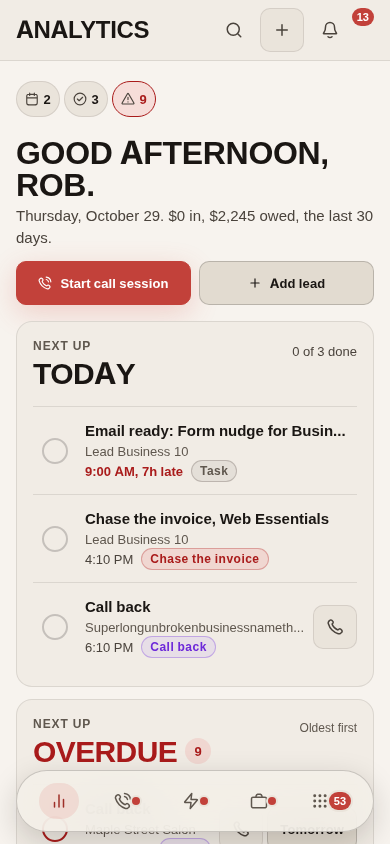
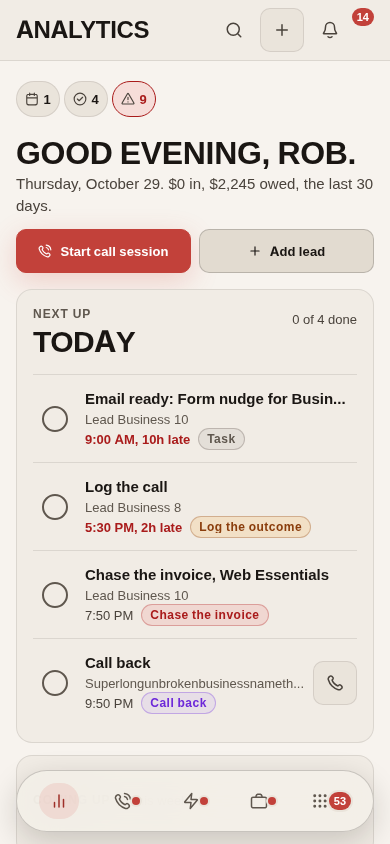
Next up on the home: Coming up above Overdue
Cards run Today, Coming up, Overdue at every width; from 768 Today and
Coming up share a row and Overdue takes the full row under them. The
skeleton draws the same order and no longer caps Today (six) or Coming up
(four), which now set where Overdue starts. Browser test asserts the
order, the layout and the skeleton fit (each proved by putting the fault
back); docs and screenshots updated.

Claude-Session: https://claude.ai/code/session_012V1U6iNS8jPedJvUn93Jhs

diff --git a/src/components/NextUpHome.jsx b/src/components/NextUpHome.jsx
@@ -15,7 +15,7 @@ import { callOutcomeSet, outcomeUndoSet } from '../lib/callOutcome';
 import { applyOutcome, outcomeRemoves, restoreLead } from '../lib/lists';
 import OutcomeSheet from './OutcomeSheet';
 
-/* Next up on the home (the home page job): Today, Overdue and Coming up as three cards Rob can work from without leaving the page.
+/* Next up on the home (the home page job): Today, Coming up and Overdue, in that order, as three cards Rob can work from without leaving the page.
  * One rule for every row, in src/lib/nextAction.js (homeRowAction) and src/lib/homeRows.js (what each write is):
  *   the check     a real task completes (the same completePatch the Tasks page writes); a call or a callback opens the Log outcome
  *                 sheet and never writes done; a manual action stamps its doneAt; any other rule action opens the record at its step
@@ -28,9 +28,12 @@ const NU_KEY = 'vz_home_nextup_n';   // the last known row counts, so the skelet
 const COMING_KEY = 'vz_home_coming'; // the Coming up card: '1' open, '0' folded
 const readLS = (k) => { try { return localStorage.getItem(k); } catch { return null; } };
 const writeLS = (k, v) => { try { localStorage.setItem(k, v); } catch { /* storage may be off */ } };
-/* The last known row counts; a stored 0 is a real answer (that card said it was clear), only a missing one falls back to a normal day. */
+/* The last known row counts; a stored 0 is a real answer (that card said it was clear), only a missing one falls back to a normal day.
+   Today and Coming up are never capped (they share the first row, so they set where Overdue starts), so the skeleton draws as many rows as they had;
+   only Overdue is capped, at the five it shows. LIVE_MAX only guards a corrupt value from drawing a page of skeleton. */
+const LIVE_MAX = 60;
 const DEFAULT_COUNTS = { t: 3, o: 5, l: 1 };
-const lastCounts = () => { try { const o = JSON.parse(readLS(NU_KEY) || 'null'); const n = (v, max, d) => (Number.isFinite(Number(v)) && v !== null && v !== undefined && v !== '' ? Math.min(max, Math.max(0, Number(v))) : d); return o ? { t: n(o.t, 6, DEFAULT_COUNTS.t), o: n(o.o, 5, DEFAULT_COUNTS.o), l: n(o.l, 4, DEFAULT_COUNTS.l) } : DEFAULT_COUNTS; } catch { return DEFAULT_COUNTS; } };
+const lastCounts = () => { try { const o = JSON.parse(readLS(NU_KEY) || 'null'); const n = (v, max, d) => (Number.isFinite(Number(v)) && v !== null && v !== undefined && v !== '' ? Math.min(max, Math.max(0, Number(v))) : d); return o ? { t: n(o.t, LIVE_MAX, DEFAULT_COUNTS.t), o: n(o.o, OVERDUE_CAP, DEFAULT_COUNTS.o), l: n(o.l, LIVE_MAX, DEFAULT_COUNTS.l) } : DEFAULT_COUNTS; } catch { return DEFAULT_COUNTS; } };
 
 /* Whether Coming up opens on arrival: what Rob left it at, else open on a computer and folded on a phone. */
 const comingOpen = () => { const v = readLS(COMING_KEY); return v === '1' ? true : v === '0' ? false : (typeof window !== 'undefined' && window.matchMedia ? window.matchMedia('(min-width: 768px)').matches : false); };
@@ -87,12 +90,12 @@ function Skeleton({ counts }) {
     <div className="nh" aria-busy="true" aria-hidden="true">
       <div className="nh-grid">
         <Card className="nh-card">{head(96)}{list(counts.t, 't')}</Card>
-        <Card className="nh-card">{head(120)}{list(counts.o, 'o')}</Card>
+        <Card className="nh-card nh-card--coming">
+          <div className="nh-coming-head"><SkeletonBlock width={112} height={14} /></div>
+          {open && list(counts.l, 'l', true)}
+        </Card>
+        <Card className="nh-card nh-wide">{head(120)}{list(counts.o, 'o')}</Card>
       </div>
-      <Card className="nh-card nh-card--coming">
-        <div className="nh-coming-head"><SkeletonBlock width={112} height={14} /></div>
-        {open && list(counts.l, 'l', true)}
-      </Card>
       <div className="nh-foot"><SkeletonBlock width={104} height={44} radius="var(--v-radius-md)" /></div>
     </div>
   );
@@ -135,7 +138,7 @@ export default function NextUpHome({ leads = [], projects = [], sets = [], loadi
   };
   useEffect(() => { // the last known counts, for the next skeleton
     if (loading) return;
-    writeLS(NU_KEY, JSON.stringify({ t: q.today.length, o: Math.min(5, q.overdue.length), l: Math.min(4, q.later.length) }));
+    writeLS(NU_KEY, JSON.stringify({ t: q.today.length, o: Math.min(OVERDUE_CAP, q.overdue.length), l: q.later.length }));
   }, [loading, q]);
 
   const openRecord = (item, intent) => { if (item.lead) shell.openRecord(item.lead, intent); };
@@ -222,7 +225,36 @@ export default function NextUpHome({ leads = [], projects = [], sets = [], loadi
           {L.today.length ? <ul className="nh-list">{L.today.map(r => <NuRow key={r.key} {...rowProps(r, false)} />)}</ul> : <p className="nh-clear" role="status">{COPY.home.todayClear}</p>}
         </Card>
 
-        <Card className="nh-card nh-card--overdue" data-card="next-overdue">
+        <Card className="nh-card nh-card--coming" data-card="next-coming">
+          <button type="button" className="nh-coming-head" aria-expanded={coming} aria-controls="nh-coming-body" onClick={toggleComing}>
+            <span className="nh-coming-label">Coming up</span>
+            <span className="nh-coming-n">{L.later.length} this week</span>
+            <Icon icon="ChevronDown" size="var(--v-icon-md)" className={`nh-chev${coming ? ' is-open' : ''}`} />
+          </button>
+          <Collapsible open={coming}>
+            <div id="nh-coming-body">
+              {L.later.length ? (
+                <ul className="nh-list">
+                  {L.later.map(it => {
+                    const d = new Date(it.due);
+                    const biz = it.lead.business;
+                    const plan = homeRowAction(it, now);
+                    return (
+                      <li key={rowKey(it)} className="nh-row nh-row--later" data-row-id={it.lead._id}>
+                        <button type="button" className="v-stretch" onClick={() => openRecord(it)} aria-label={`Open ${biz}, ${plan.title}, ${fmtDateTime(it.due)}`}>{`Open ${biz}`}</button>
+                        <span className="nh-stamp" aria-hidden="true"><span className="nh-stamp-d">{DAYS[d.getDay()]}</span><span className="nh-stamp-n">{d.getDate()}</span></span>
+                        <div className="nh-body"><span className="nh-title lay-truncate">{plan.title}</span><span className="nh-biz lay-truncate">{biz}</span></div>
+                        <Pill tone={NEXT_TONE[it.action.kind] || 'neutral'} label={kindLabel(it.action)} size="sm" icon={false} variant="soft" className="nh-later-pill" />
+                      </li>
+                    );
+                  })}
+                </ul>
+              ) : <p className="nh-clear">{COPY.home.comingClear}</p>}
+            </div>
+          </Collapsible>
+        </Card>
+
+        <Card className="nh-card nh-card--overdue nh-wide" data-card="next-overdue">
           <div className="nh-head">
             <div className="nh-headl"><span className="nh-kicker">Next up</span><h2 className="nh-h">Overdue{L.overdueCount > 0 && <span className="nh-count">{L.overdueCount}</span>}</h2></div>
             <span className="nh-sort">Oldest first</span>
@@ -233,35 +265,6 @@ export default function NextUpHome({ leads = [], projects = [], sets = [], loadi
           )}
         </Card>
       </div>
-
-      <Card className="nh-card nh-card--coming" data-card="next-coming">
-        <button type="button" className="nh-coming-head" aria-expanded={coming} aria-controls="nh-coming-body" onClick={toggleComing}>
-          <span className="nh-coming-label">Coming up</span>
-          <span className="nh-coming-n">{L.later.length} this week</span>
-          <Icon icon="ChevronDown" size="var(--v-icon-md)" className={`nh-chev${coming ? ' is-open' : ''}`} />
-        </button>
-        <Collapsible open={coming}>
-          <div id="nh-coming-body">
-            {L.later.length ? (
-              <ul className="nh-list">
-                {L.later.map(it => {
-                  const d = new Date(it.due);
-                  const biz = it.lead.business;
-                  const plan = homeRowAction(it, now);
-                  return (
-                    <li key={rowKey(it)} className="nh-row nh-row--later" data-row-id={it.lead._id}>
-                      <button type="button" className="v-stretch" onClick={() => openRecord(it)} aria-label={`Open ${biz}, ${plan.title}, ${fmtDateTime(it.due)}`}>{`Open ${biz}`}</button>
-                      <span className="nh-stamp" aria-hidden="true"><span className="nh-stamp-d">{DAYS[d.getDay()]}</span><span className="nh-stamp-n">{d.getDate()}</span></span>
-                      <div className="nh-body"><span className="nh-title lay-truncate">{plan.title}</span><span className="nh-biz lay-truncate">{biz}</span></div>
-                      <Pill tone={NEXT_TONE[it.action.kind] || 'neutral'} label={kindLabel(it.action)} size="sm" icon={false} variant="soft" className="nh-later-pill" />
-                    </li>
-                  );
-                })}
-              </ul>
-            ) : <p className="nh-clear">{COPY.home.comingClear}</p>}
-          </div>
-        </Collapsible>
-      </Card>
 
       <div className="nh-foot"><Button variant="ghost" size="md" icon="ArrowRight" onClick={() => shell.go('tasks')} className="nh-all">All tasks</Button></div>
       <span className="visually-hidden" role="status" aria-live="polite" key={said.n}>{said.text}</span>
@@ -281,7 +284,8 @@ export default function NextUpHome({ leads = [], projects = [], sets = [], loadi
 export const nextUpHomeStyles = `
   .nh { display: flex; flex-direction: column; gap: var(--v-space-3); min-width: 0; }
   .nh-grid { display: grid; grid-template-columns: minmax(0, 1fr); gap: var(--v-space-3); min-width: 0; align-items: start; }
-  @media (min-width: 768px) { .nh-grid { grid-template-columns: repeat(2, minmax(0, 1fr)); } }
+  /* Today, Coming up, Overdue, in that order at every width. From 768 Today and Coming up share the top row and Overdue takes the full row under them. */
+  @media (min-width: 768px) { .nh-grid { grid-template-columns: repeat(2, minmax(0, 1fr)); } .nh-wide { grid-column: 1 / -1; } }
   .nh-card { gap: 0; min-width: 0; border-radius: var(--v-radius-xl); }
   .nh-card--overdue { border-color: color-mix(in srgb, var(--v-status-danger-text) 38%, var(--v-border)); }
   .nh-head { display: flex; align-items: flex-start; justify-content: space-between; gap: var(--v-space-3); min-height: 56px; min-width: 0; }

diff --git a/src/pages/AdminAnalytics.jsx b/src/pages/AdminAnalytics.jsx
@@ -20,7 +20,7 @@ import { Dash, DashSkeleton, dashStyles } from './AdminPipeline';
  * (api/_routes/analytics.js over api/_lib/analytics.js, mirrored in
  * src/lib/analytics.js): real records, honest empty states, no sample
  * data. The payload is small and cached here for a minute per range. Next up
- * (Today, Overdue, Coming up) sits under the greeting: src/components/NextUpHome.jsx,
+ * (Today, Coming up, Overdue) sits under the greeting: src/components/NextUpHome.jsx,
  * the task rules over the leads already in the shell. */
 
 const RANGES = [{ id: 'month', label: 'Month' }, { id: '90', label: '90 days' }, { id: 'year', label: 'Year' }];

diff --git a/src/shared/copy.js b/src/shared/copy.js
@@ -10,7 +10,7 @@
  * `secondary` a link-style second choice where the screen offers one.
  */
 export const COPY = {
-  /* The home's Next up block: Today, Overdue, Coming up. */
+  /* The home's Next up block: Today, Coming up, Overdue. */
   home: {
     todayClear: 'Today is clear. Nice work.',
     overdueClear: "Nothing overdue. You're caught up.",

diff --git a/docs/MOBILE-DECISIONS.md b/docs/MOBILE-DECISIONS.md
@@ -339,7 +339,8 @@ One line each: what, why, the alternative rejected.
 - Where the check opens the Log outcome sheet, the sheet is the Call Console's own: `OutcomeSheet` moved from AdminCalls.jsx to src/components/OutcomeSheet.jsx and the write it makes moved to src/lib/callOutcome.js (`callOutcomeSet`, `outcomeUndoSet`), both used by the Console and the home, so a callback logged from either lands the same. The five outcomes are offered by a small picker sheet first (the Console has them as room buttons). The dial list's rule is applied on the same beat from the lead's `listId` (`applyOutcome`, `outcomeRemoves`, `restoreLead` through the shell's `listOps`), and the shared patch helper reconciles Callbacks due as it does for every lead write.
 - RoundCheck is a new kit piece (src/ui/RoundCheck.jsx, documented in docs/COMPONENTS.md): the kit's Checkbox is a 22px square field control, and the row wants a 44px round control that is also the way into a sheet. It is a `<button>`, not a checkbox; once done it is `aria-disabled` rather than `disabled`, so focus stays on it instead of dropping to the page.
 - Row text sizes: the title is `--v-text-md` (15px) semibold, not 16px: there is no 16px token and tokens only is a standing rule; 15 leaves the late words room on a 390px phone. When the line is short the kind pill gives way (it truncates), never the late label.
-- The skeleton follows the data: it draws the last known row counts (localStorage `vz_home_nextup_n`, default three Today and five Overdue, the shape of a normal day) instead of a fixed two rows per card, and draws Coming up open or folded the way it will land. Two rows per card fails the feel audit's fit check on every state of the home (the Overdue and Coming up cards start where the cards above them end) and would need a noFit exemption. There is no delay before it shows (the other screens wait 150 ms): an empty region for the first moments pushes everything under it down, which the audit reads as a layout shift of 0.5.
+- The skeleton follows the data: it draws the last known row counts (localStorage `vz_home_nextup_n`, default three Today and five Overdue, the shape of a normal day), Today and Coming up uncapped (they share the first row from 768, so they set where Overdue starts; an earlier cap of six and four made Overdue jump when Coming up held five or more), Overdue at its five instead of a fixed two rows per card, and draws Coming up open or folded the way it will land. Two rows per card fails the feel audit's fit check on every state of the home (the Overdue and Coming up cards start where the cards above them end) and would need a noFit exemption. There is no delay before it shows (the other screens wait 150 ms): an empty region for the first moments pushes everything under it down, which the audit reads as a layout shift of 0.5.
 - Audit expectations changed: (1) screen `analytics-year` in scripts/audit-screens.mjs clicks the Year radio without scrolling it into view (`evaluate(e => e.click())`), because the range control now sits under Next up, below the fold on a phone, and a scrolling click made the skeleton and the loaded state sit at different scroll offsets (the fit check compares positions at the top); (2) `DashSkeleton cards` went from 7 to 6, the loaded page having lost its Open tasks card; (3) one new row, `analytics-nextup-clear` (static), so Today and Overdue in their clear states reach the layout and a11y audits. No audit asserted the old Open tasks card itself.
 - The Coming up card remembers open or folded in localStorage `vz_home_coming` ('1' or '0', try/catch), default open from 768px and folded below. A row that moves is a ghost for `--v-dur-slow` plus a beat, then it is removed; a finished row is a ghost until the page reloads.
 - Review pass (five lenses over the diff, skeptics verifying each finding; four confirmed by reproduction before the run was stopped to free the machine for the gate, the rest fixed from the finders' own scenarios): (1) Tomorrow on a pinned task now moves the stored next action (the pin's copy of the due) with the task, and its undo puts both back; (2) completing a pinned task is undone with the pin and the next action restored; (3) Tomorrow moves a task's reminder with its due, keeping its distance, and clears the stamp, because the reminders cron pushes on remindAt (a reminder left on the old time fires at once or is stamped stale and never pushes for the new one); the undo restores due, remindAt and notifiedAt exactly (the Tasks page's own snooze still leaves remindAt alone, a gap worth its own job); (4) Show N more depends on every row Overdue holds (finished rows included), not the live count; (5) the skeleton treats a stored 0 as a clear card; (6) a done RoundCheck is `aria-disabled` not `disabled`, focus moves to the neighbouring row after Tomorrow; (7) the done row's business name keeps its full contrast, the neutral ring is `--v-text-3`; (8) below 381px the Tomorrow and Open buttons are icon buttons with the same labels, so a call row's title keeps room; (9) the Outcome Undo reads the shell's lists as they are when it runs; (10) a snoozed rule action (auto false, any kind but custom) is not a task to tick: its check opens the record, Tomorrow still moves the snooze; (11) the tests that ran an undo on the pre-write record now run it on the record as the write left it. Left as they are: a snoozed callback's logged outcome does not clear its manual action (the Call Console and the Tasks page behave the same), and two Open controls on a derived overdue row (the check opens the step, the button opens the record) with different labels.
+- Order (a later request: Coming up above Overdue): the cards run Today, Coming up, Overdue in the document and down the page at every width, so the tab order and a screen reader follow what the eye sees. A phone stacks the three. From 768 the grid is two columns with Today and Coming up on the first row and Overdue spanning both (`.nh-wide`, `grid-column: 1 / -1`) under them; the alternative that kept two columns (Today on the left, Coming up over Overdue on the right) left a tall empty space under a short Today. The skeleton draws the same three cards in the same order. Audit expectation changed: scripts/home-nextup-test.mjs used to assert that Today and Overdue sit side by side from 768 and that the cards stack on a phone; it now asserts the document order, Coming up above Overdue, the shared first row and the full width Overdue row from 768, and the stack on a phone (proved by putting the old order back: 7 checks fail across 320, 390 and 1280). No other audit asserted the order.

diff --git a/CLAUDE.md b/CLAUDE.md
@@ -19,7 +19,7 @@ is in reports/PROMPT-NN-REPORT.md and reports/SITE-NN-REPORT.md.
 - Dates on the server are America/New_York through api/_lib/zone.js (the cron, rules.js, nextAction.js, deal.js, invoices.js), never the process zone; the client mirrors keep the browser's zone in the clock at the top of the file and stay byte for byte identical below it. rules-test and next-action-test run in both zones and must agree.
 - One task system: tasks are the `checklists` on leads and projects (src/shared/taskRules.js, mirrored byte for byte in api/_lib/taskRules.js, asserted by tasks-test), never a second collection. The Next up rule is `taskNextUp` and nothing else: pinned wins, else the earliest due open task overdue first, ties by checklist order then task order, undated only when nothing is dated. A pin IS the manual next action (auto false, taskId) and every write that pins, finishes, deletes or unpins goes through src/lib/taskWrite.js. The Tasks screen (/clients/:id/tasks) and the record's Tasks section are the only task UI; Notes has no checklists.
 - The client planner is a dashboard (src/pages/Planner.jsx: Home, Posts, Ads, Ideas) in Rob's first person, fed only by /api/planner, which strips on the server what a client may not see (an ad's budget unless showBudget, nothing internal). A post carries kind post or ad; video is a format. Suggestions (a client's ideas) are their own collection, written only by the planner door and answered from the editor's inbox. Save to photos is src/lib/share.js (share-test).
-- The home's Next up block (src/components/NextUpHome.jsx over src/lib/homeRows.js and `homeRowAction` in src/lib/nextAction.js): Today, Overdue and Coming up are `nextUpItems` and nothing else, so the overview chips and the tab badge follow every write. One rule per row: a real task completes through `completePatch`, a call or a callback never writes done (it opens the Log outcome sheet, src/components/OutcomeSheet.jsx, built by src/lib/callOutcome.js, the same write the Call Console makes), a manual action stamps its `doneAt` like the Tasks page, any other rule action opens its record; Tomorrow is 9:00 AM New York (`tomorrowNineNY`) on a task, a callback (`callbackAt`) or a manual action, and a derived action gets Open instead. A row finished or moved stays until reload (ghosts); Today is never capped and Overdue shows five then Show N more. `node scripts/home-nextup-test.mjs` walks it in a browser; section 4 of next-action-test is the pure half.
+- The home's Next up block (src/components/NextUpHome.jsx over src/lib/homeRows.js and `homeRowAction` in src/lib/nextAction.js): Today, Coming up and Overdue (in that order, at every width) are `nextUpItems` and nothing else, so the overview chips and the tab badge follow every write. One rule per row: a real task completes through `completePatch`, a call or a callback never writes done (it opens the Log outcome sheet, src/components/OutcomeSheet.jsx, built by src/lib/callOutcome.js, the same write the Call Console makes), a manual action stamps its `doneAt` like the Tasks page, any other rule action opens its record; Tomorrow is 9:00 AM New York (`tomorrowNineNY`) on a task, a callback (`callbackAt`) or a manual action, and a derived action gets Open instead. A row finished or moved stays until reload (ghosts); Today is never capped and Overdue shows five then Show N more. `node scripts/home-nextup-test.mjs` walks it in a browser; section 4 of next-action-test is the pure half.
 - Every lead and project carries one next action (src/lib/nextAction.js, mirrored in api/_lib/nextAction.js): the rules are one pure function, the shared patch helpers in AdminApp (and the Call Console's own) recompute it on any write that touches the fields it reads, the daily cron repairs drift, a manual action (auto false) is never overwritten. The Tasks page (/tasks, the Next up queue; the first screen, nav id dashboard, is Analytics), its badge and the notifications drawer read nextUpItems and nothing else for what is due.
 - Client docs (docs job; docs/ARCHITECTURE.md, "Client docs"): a doc is a title, a type and blocks, never HTML. `src/shared/docBlocks.js` is the schema and is mirrored byte for byte in `api/_lib/docBlocks.js` (docs-test asserts it); `sanitizeBlocks()` is the only door in, `domToRuns` in `src/components/docs/RichText.jsx` the only place page text becomes runs, and nothing that draws a doc writes HTML (security-test 4d scans for the sinks). Docs are admin only (api/_routes/docs.js behind route()); a reference block may only point at the same client's record; every doc read and write goes through `docsApi` (src/lib/useDocs.js) from the shell, so the client's Docs card, All docs, the More count, search and Recently Deleted read one list. Autosave is src/lib/docSave.js: Back saves first and text that could not be saved is kept in memory for the next open. Contract wording states the house rules from `src/shared/pricing.js` (never typed). A doc's checklist stays in the doc; only the explicit Make a task writes a task, through `addTask` and `checklistsPatch`.
 - Concepts are a client presentation, not a library: a lead at any stage gets a concept set (concept_sets, api/_routes/concept-sets.js) built at /leads/:id/concepts and opened by the client at /concepts/:token (src/pages/Concepts.jsx: one section per direction, each revealing as one unit, no scenes; served by /api/concepts which rides on api/showcase.js by rewrite). The token is minted server side only; a draft never resolves publicly; the client can approve, ask for changes and leave notes, and nothing else. A set is Pick one (default, every older set) or Review each (an answer on every direction that needs one, saved as they go, one Send my answers, locked until Rob reopens it); the client's answers are written only by the public endpoint and survive an editor save. No prices on that page.

diff --git a/docs/QA-CHECKLIST.md b/docs/QA-CHECKLIST.md
@@ -12,7 +12,7 @@ off, theme Dark.
 | # | Do | Expect |
 |---|---|---|
 | 1 | Open admin.visualizeclients.com on the phone | The shell frame paints at once, the login card appears, no blank screen. |
-| 2 | Sign in with the password | Analytics (the home) greets you by name with today's date and the money line (received in the period, outstanding); six KPIs with their change against the period before; the range (Month, 90 days, Year) is remembered. A phone shows the overview strip (meetings, due today, overdue) on one line above. Under the greeting, Next up: Today (rows by time, X of Y done), Overdue (oldest first, five rows then Show N more, a Tomorrow or Open on each), Coming up (the next seven days, folded on a phone). Tick a task: it stays, struck through, Undo for six seconds, the overview chips follow. Tomorrow moves it to 9:00 AM. The check on a call or a callback opens Log outcome. |
+| 2 | Sign in with the password | Analytics (the home) greets you by name with today's date and the money line (received in the period, outstanding); six KPIs with their change against the period before; the range (Month, 90 days, Year) is remembered. A phone shows the overview strip (meetings, due today, overdue) on one line above. Under the greeting, Next up, top to bottom: Today (rows by time, X of Y done), Coming up (the next seven days, folded on a phone), Overdue (oldest first, five rows then Show N more, a Tomorrow or Open on each). From 768 Today and Coming up share a row and Overdue takes the full row under them. Tick a task: it stays, struck through, Undo for six seconds, the overview chips follow. Tomorrow moves it to 9:00 AM. The check on a call or a callback opens Log outcome. |
 | 2a | Look at the bottom of the phone | A floating glass pill sits above the home indicator, inset from both sides, content blurred underneath it as the screen scrolls: Home, Calls, Deals, Clients, More, icons only (no text labels), the active one in a lighter pill highlight. More is a page of rows grouped as the sidebar groups them, a count on the right of each: Triage, Lists, Leads, Calendar, Declined, Projects, Orders, Reviews, Concepts, Landing, Submissions, Recently Deleted, Settings and Design. Nothing is greyed out and nothing says computer only. |
 | 2c | Open a record, an editor or the call room on the phone | The glass pill slides below the safe area and gives its space back; the top bar is Back and the title (and Done inside an editor step). Search, Quick add and Notifications are not there. Back, or a swipe from the left edge, returns to the list and the pill slides back up. |
 | 2d | Drag from the left edge of a record, slowly | The record follows your finger over the list it returns to; let go before 40 percent and it springs back, after it and it goes back. A dialog open, or a drag that starts on a row of chips, does nothing. |

diff --git a/docs/ARCHITECTURE.md b/docs/ARCHITECTURE.md
@@ -83,7 +83,7 @@ Seven steps rebuilt the pipeline on main; each is described once here and the de
 
 | Path | Screen | File |
 |---|---|---|
-| / | Analytics (the nav revamp, milestone 6): the greeting, Next up (Today, Overdue, Coming up: src/components/NextUpHome.jsx, rows Rob works from without leaving the page), the range (Month, 90 days, Year, remembered), six KPIs with the change against the period before (income received, outstanding, clients gained, tasks completed with Tracking since, leads added, MRR), the charts (income by week or month, clients gained, tasks completed, the funnel, income by package), meetings. Reads /api/admin/analytics; a phone shows the overview strip on one line above. | pages/AdminAnalytics.jsx, components/NextUpHome.jsx |
+| / | Analytics (the nav revamp, milestone 6): the greeting, Next up (Today, Coming up, Overdue: src/components/NextUpHome.jsx, rows Rob works from without leaving the page), the range (Month, 90 days, Year, remembered), six KPIs with the change against the period before (income received, outstanding, clients gained, tasks completed with Tracking since, leads added, MRR), the charts (income by week or month, clients gained, tasks completed, the funnel, income by package), meetings. Reads /api/admin/analytics; a phone shows the overview strip on one line above. | pages/AdminAnalytics.jsx, components/NextUpHome.jsx |
 | /tasks | Tasks (the Next up queue, moved here by the nav revamp): the greeting, then every lead and project next action, overdue first, then today, then Later this week folded; each row has the one control that does the action (call, log the outcome, build concepts, open payments, open the record), swipe right marks done and swipe left snoozes on a phone, a long press picks the snooze; a desktop shows the queue in the panel and the tapped record beside it; the numbers sit under Stats. Formerly the Dashboard: greeting, Today panel, the four numbers that matter, the pipeline strip, More stats (the rest and revenue) behind one tap, activity | pages/AdminTasksHome.jsx |
 | /pipeline | Pipeline dashboard (the nav revamp, milestone 5): the funnel bar (Triage, Leads, Contacted, Booked, Deals, Clients with the step conversion), the newest five in Triage with Accept (keepPatch, Undo) and Deny (the Decline sheet), calls today and the open hand list's progress against its target and due date, follow ups due, meetings in 7 days, deals ready to hand off. | pages/AdminPipeline.jsx |
 | /overview | Clients dashboard (the nav revamp, milestone 5): active clients, projects in progress, retainers and their monthly total, unpaid invoices, tasks due across clients, the planner's state, recent activity; the same card grid as /pipeline. | pages/AdminOverview.jsx |

diff --git a/docs/MOBILE-PROGRESS.md b/docs/MOBILE-PROGRESS.md
@@ -25,7 +25,7 @@ Resume with: "Continue the client docs job from docs/MOBILE-PROGRESS.md." Milest
 Resume with: "Continue the Next up home job from docs/MOBILE-PROGRESS.md." Decisions: the last section of docs/MOBILE-DECISIONS.md.
 - [x] Milestone 1: homeRowAction, lateLabel, homeTimeLabel, tomorrowNineNY (src/lib/nextAction.js), homeLists, checkWrite, tomorrowWrite (src/lib/homeRows.js), section 4 of scripts/next-action-test.mjs (both zones). Faults put back and shown failing: a callback check writing done, Tomorrow in the browser zone, Today capped at 5.
 - [x] Milestone 2: RoundCheck (kit), OutcomeSheet and callOutcome extracted from the Call Console, src/components/NextUpHome.jsx (Today, Overdue, the check, Undo, Tomorrow, Log outcome, Show more, skeleton, error, live region), the old Open tasks card removed, the range control under Next up; scripts/home-nextup-test.mjs.
-- [x] Milestone 3 (built): Coming up (remembered, open from 768), the two column grid, motion; audits at five widths run in milestone 4's gate.
+- [x] Milestone 3 (built): Coming up (remembered, open from 768), the grid, motion; audits at five widths run in milestone 4's gate.
 - [x] Review pass: five lens workflow, confirmed findings fixed (see the last decisions entry), tests tightened (section 4c2 of next-action-test, 157 checks).
 - [x] Milestone 4: gate run (preship:full: layout 1270 views clean at five widths, scene, lint, hex 78, gesture, empty, docs audits pass; chrome-audit's one failure, triage-record, and back-test's four Calls hub failures are identical on a2771c2, before this job). a11y 658 rows both themes zero violations, regression 118 steps, site-regression 18, feel on the home 0 gaps, home-nextup-test passes at 320, 390 and 1280. pipeline-test and planner-endpoint-test fail on today's date identically on a2771c2.
 
